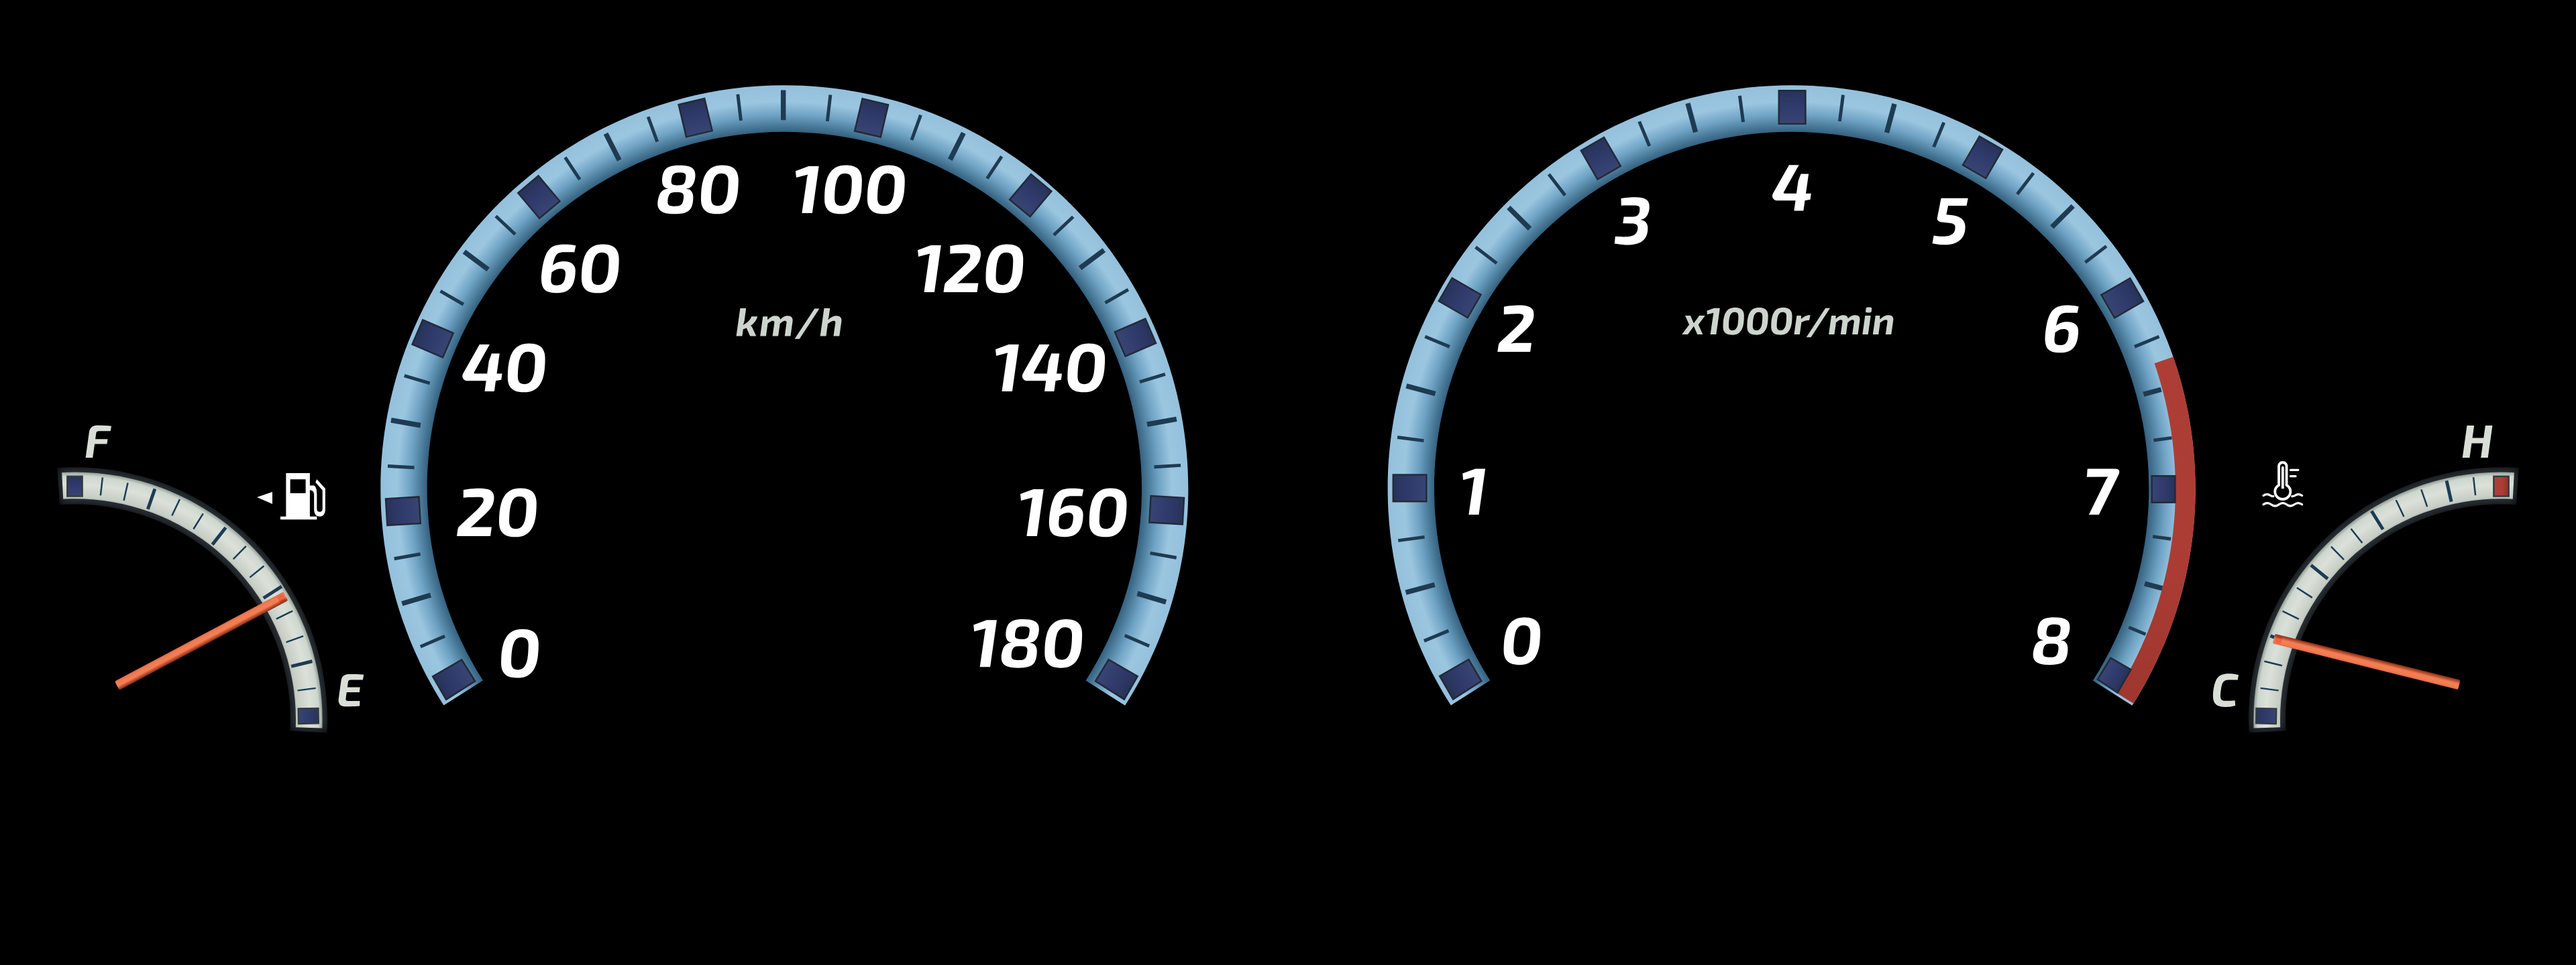
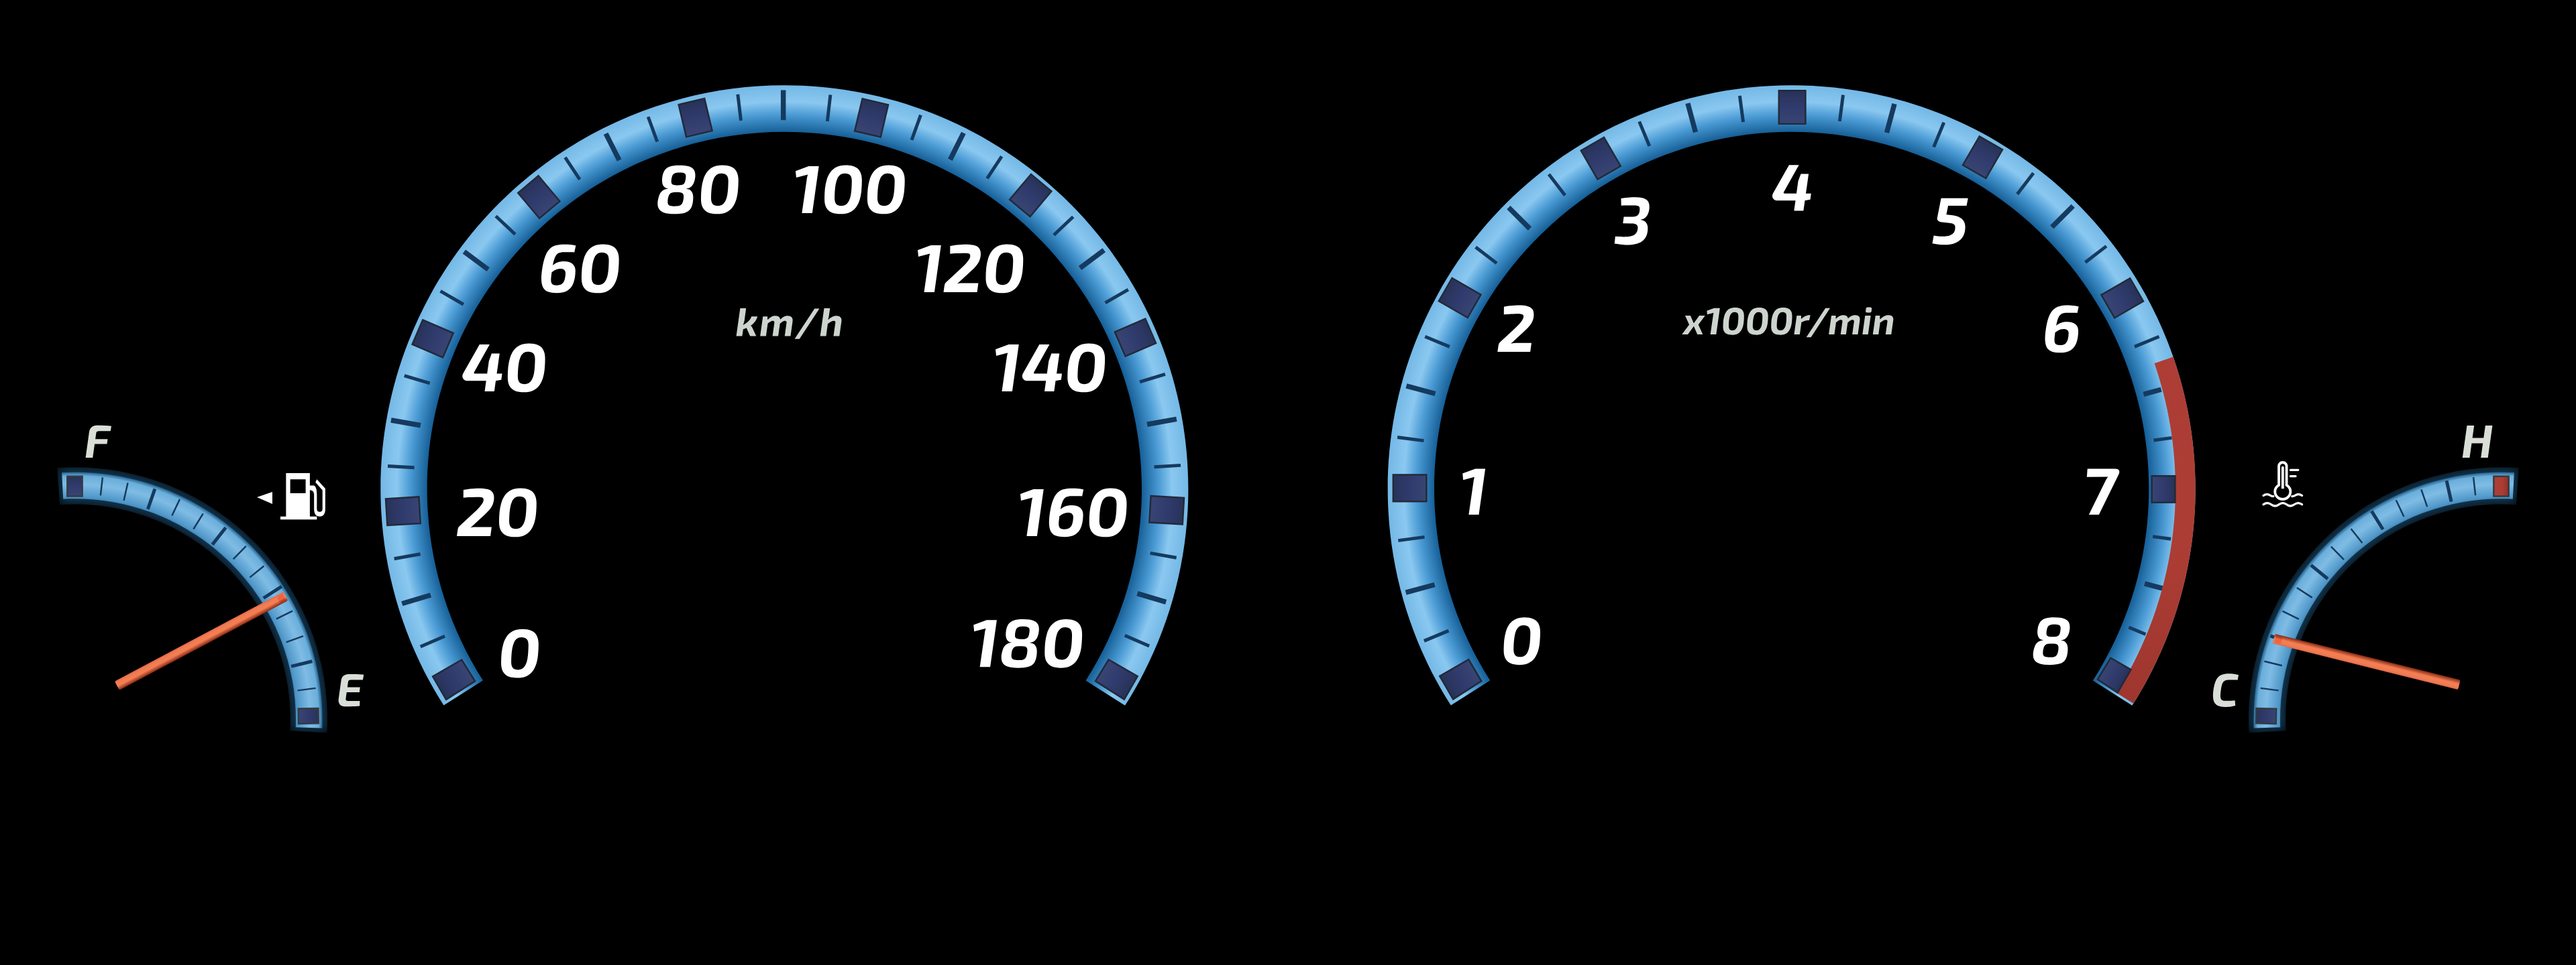
dsh: Gaia-blue — насыщенный синий, колодцы топлива и температуры тоже перекрашены

diff --git a/tools/gaia_bake.py b/tools/gaia_bake.py
@@ -80,10 +80,17 @@ BASE_FILL_OUT = "#000000"
 # ступени макета при простом сдвиге hue остаются почти серыми.
 # Порядок ступеней совпадает с оригинальным градиентом кольца:
 # #9CA39E, #828C87, #CBD1CA, #E3E7DF, #DEE2DA.
+# Кольца основных шкал (5 ступеней, как в макете: тёмная-тёмная-светлая-светлая-светлая).
 RING_GRADIENTS = ("paint0_radial_19_361", "paint17_radial_19_361")
-RING_BLUE_STOPS = ["#3E6E8E", "#33607E", "#6FA3C4", "#9BC6E0", "#94C0DC"]
+RING_BLUE_STOPS = ["#1E6FAE", "#155E96", "#4A9AD4", "#8AC8F0", "#74B8E6"]
+# Кольца-колодцы топлива и температуры в углах (6 ступеней).
+CORNER_GRADIENTS = ("paint34_radial_19_361", "paint41_radial_19_361")
+CORNER_BLUE_STOPS = ["#2A6E9E", "#1F5C88", "#4F97C9", "#7FBCE4", "#6AAEDB", "#24618C"]
+# Обод угловых колодцев и деления шкал — тёмно-синие.
+RING_EDGE = "#2F373D"
+RING_EDGE_BLUE = "#143A55"
 DARK_MARKS = ("#303538", "#31383B")     # деления шкал
-DARK_MARKS_BLUE = "#1E3B52"             # тёмно-синие деления
+DARK_MARKS_BLUE = "#153A5E"             # тёмно-синие деления
 NUMBERS = "#DFE2DD"                     # цифры на шкалах
 NUMBERS_BLUE_THEME = "#FFFFFF"          # в синем варианте — чисто белые
 
@@ -346,25 +353,35 @@ def blue_theme(svg_root):
     (углы с топливом и температурой, карточки) остаётся как в макете.
     """
     changed = 0
-    for gid in RING_GRADIENTS:
-        node = _find_by_id(svg_root, gid)
-        if node is None:
-            print(f"  !! градиент {gid} не найден")
-            continue
-        stops = list(node)
-        for i, st in enumerate(stops):
-            if i < len(RING_BLUE_STOPS):
-                st.set("stop-color", RING_BLUE_STOPS[i])
-                changed += 1
+
+    def repaint(gids, stops, what):
+        nonlocal changed
+        for gid in gids:
+            node = _find_by_id(svg_root, gid)
+            if node is None:
+                print(f"  !! градиент {gid} не найден")
+                continue
+            for i, st in enumerate(list(node)):
+                if i < len(stops):
+                    st.set("stop-color", stops[i])
+                    changed += 1
+        print(f"  {what}: перекрашено")
+
+    repaint(RING_GRADIENTS, RING_BLUE_STOPS, "кольца шкал")
+    repaint(CORNER_GRADIENTS, CORNER_BLUE_STOPS, "колодцы топлива и температуры")
+
     for el in svg_root.iter():
         fill = el.get("fill")
         if fill in DARK_MARKS:
             el.set("fill", DARK_MARKS_BLUE)
             changed += 1
+        elif fill == RING_EDGE:
+            el.set("fill", RING_EDGE_BLUE)
+            changed += 1
         elif fill == NUMBERS:
             el.set("fill", NUMBERS_BLUE_THEME)
             changed += 1
-    print(f"синяя тема: перекрашено цветов — {changed}")
+    print(f"синяя тема: всего перекрашено цветов — {changed}")
 
 
 def render(svg_path=None, png_1x=None, png_2x=None):

diff --git a/docs/skin.md b/docs/skin.md
@@ -14,9 +14,11 @@
 вариант с синими шкалами и белыми цифрами. Это тот же скин (`GaiaSkin.qml`,
 свойство `blueScale`), меняется только фон: `tools/gaia_bake.py` печёт
 вторую картинку `images/gaia/gaia_bg_blue.png` из того же вырезанного SVG,
-подменяя палитру шкал — градиенты колец на синие (`RING_BLUE_STOPS`),
-деления в тёмно-синий, цифры в чисто белый. Декор (углы с топливом и
-температурой) остаётся как в макете. Включение — `DASHBOARD_SKIN=gaia-blue`
+подменяя палитру шкал — градиенты колец основных шкал (`RING_BLUE_STOPS`)
+и колодцев топлива/температуры в углах (`CORNER_BLUE_STOPS`) на синие,
+деления и ободы в тёмно-синий, цифры в чисто белый. Синий взят насыщенный:
+на кадре кольцо `93,154,201`, колодцы `95,159,203`. Стрелки (в том числе
+маленькие топлива и температуры), лампы и экранчик не меняются. Включение — `DASHBOARD_SKIN=gaia-blue`
 или F8 после «gaia».
 
 **Как собрано.** Макет — чистый вектор без единого `<text>`: вся типографика
